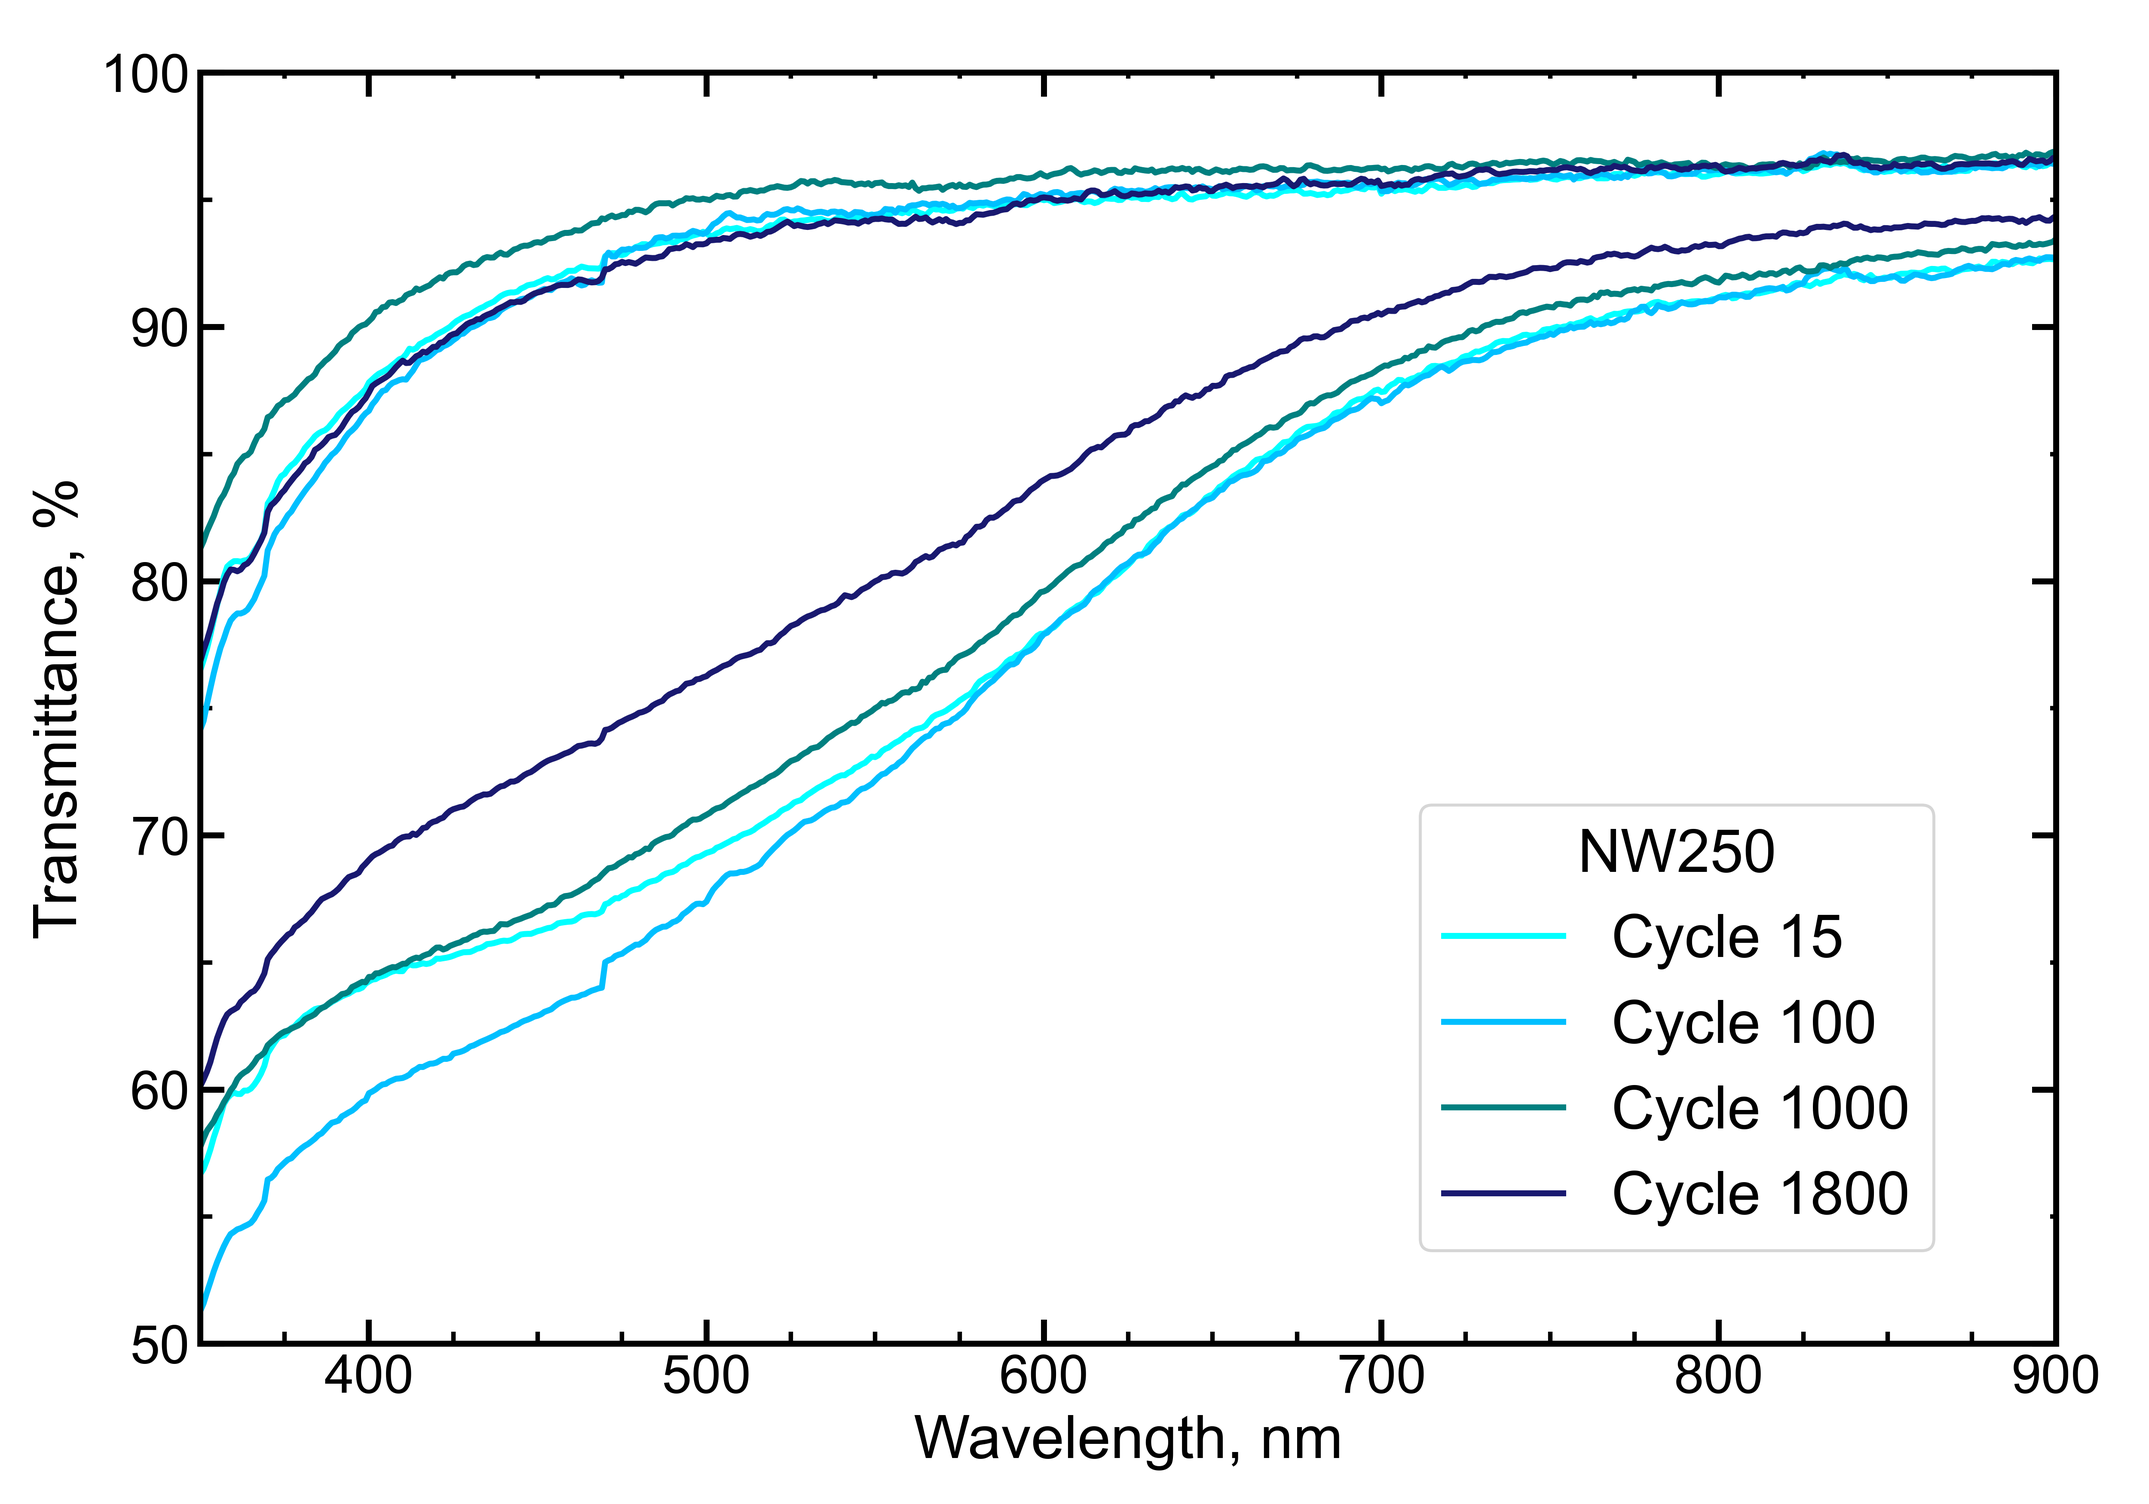
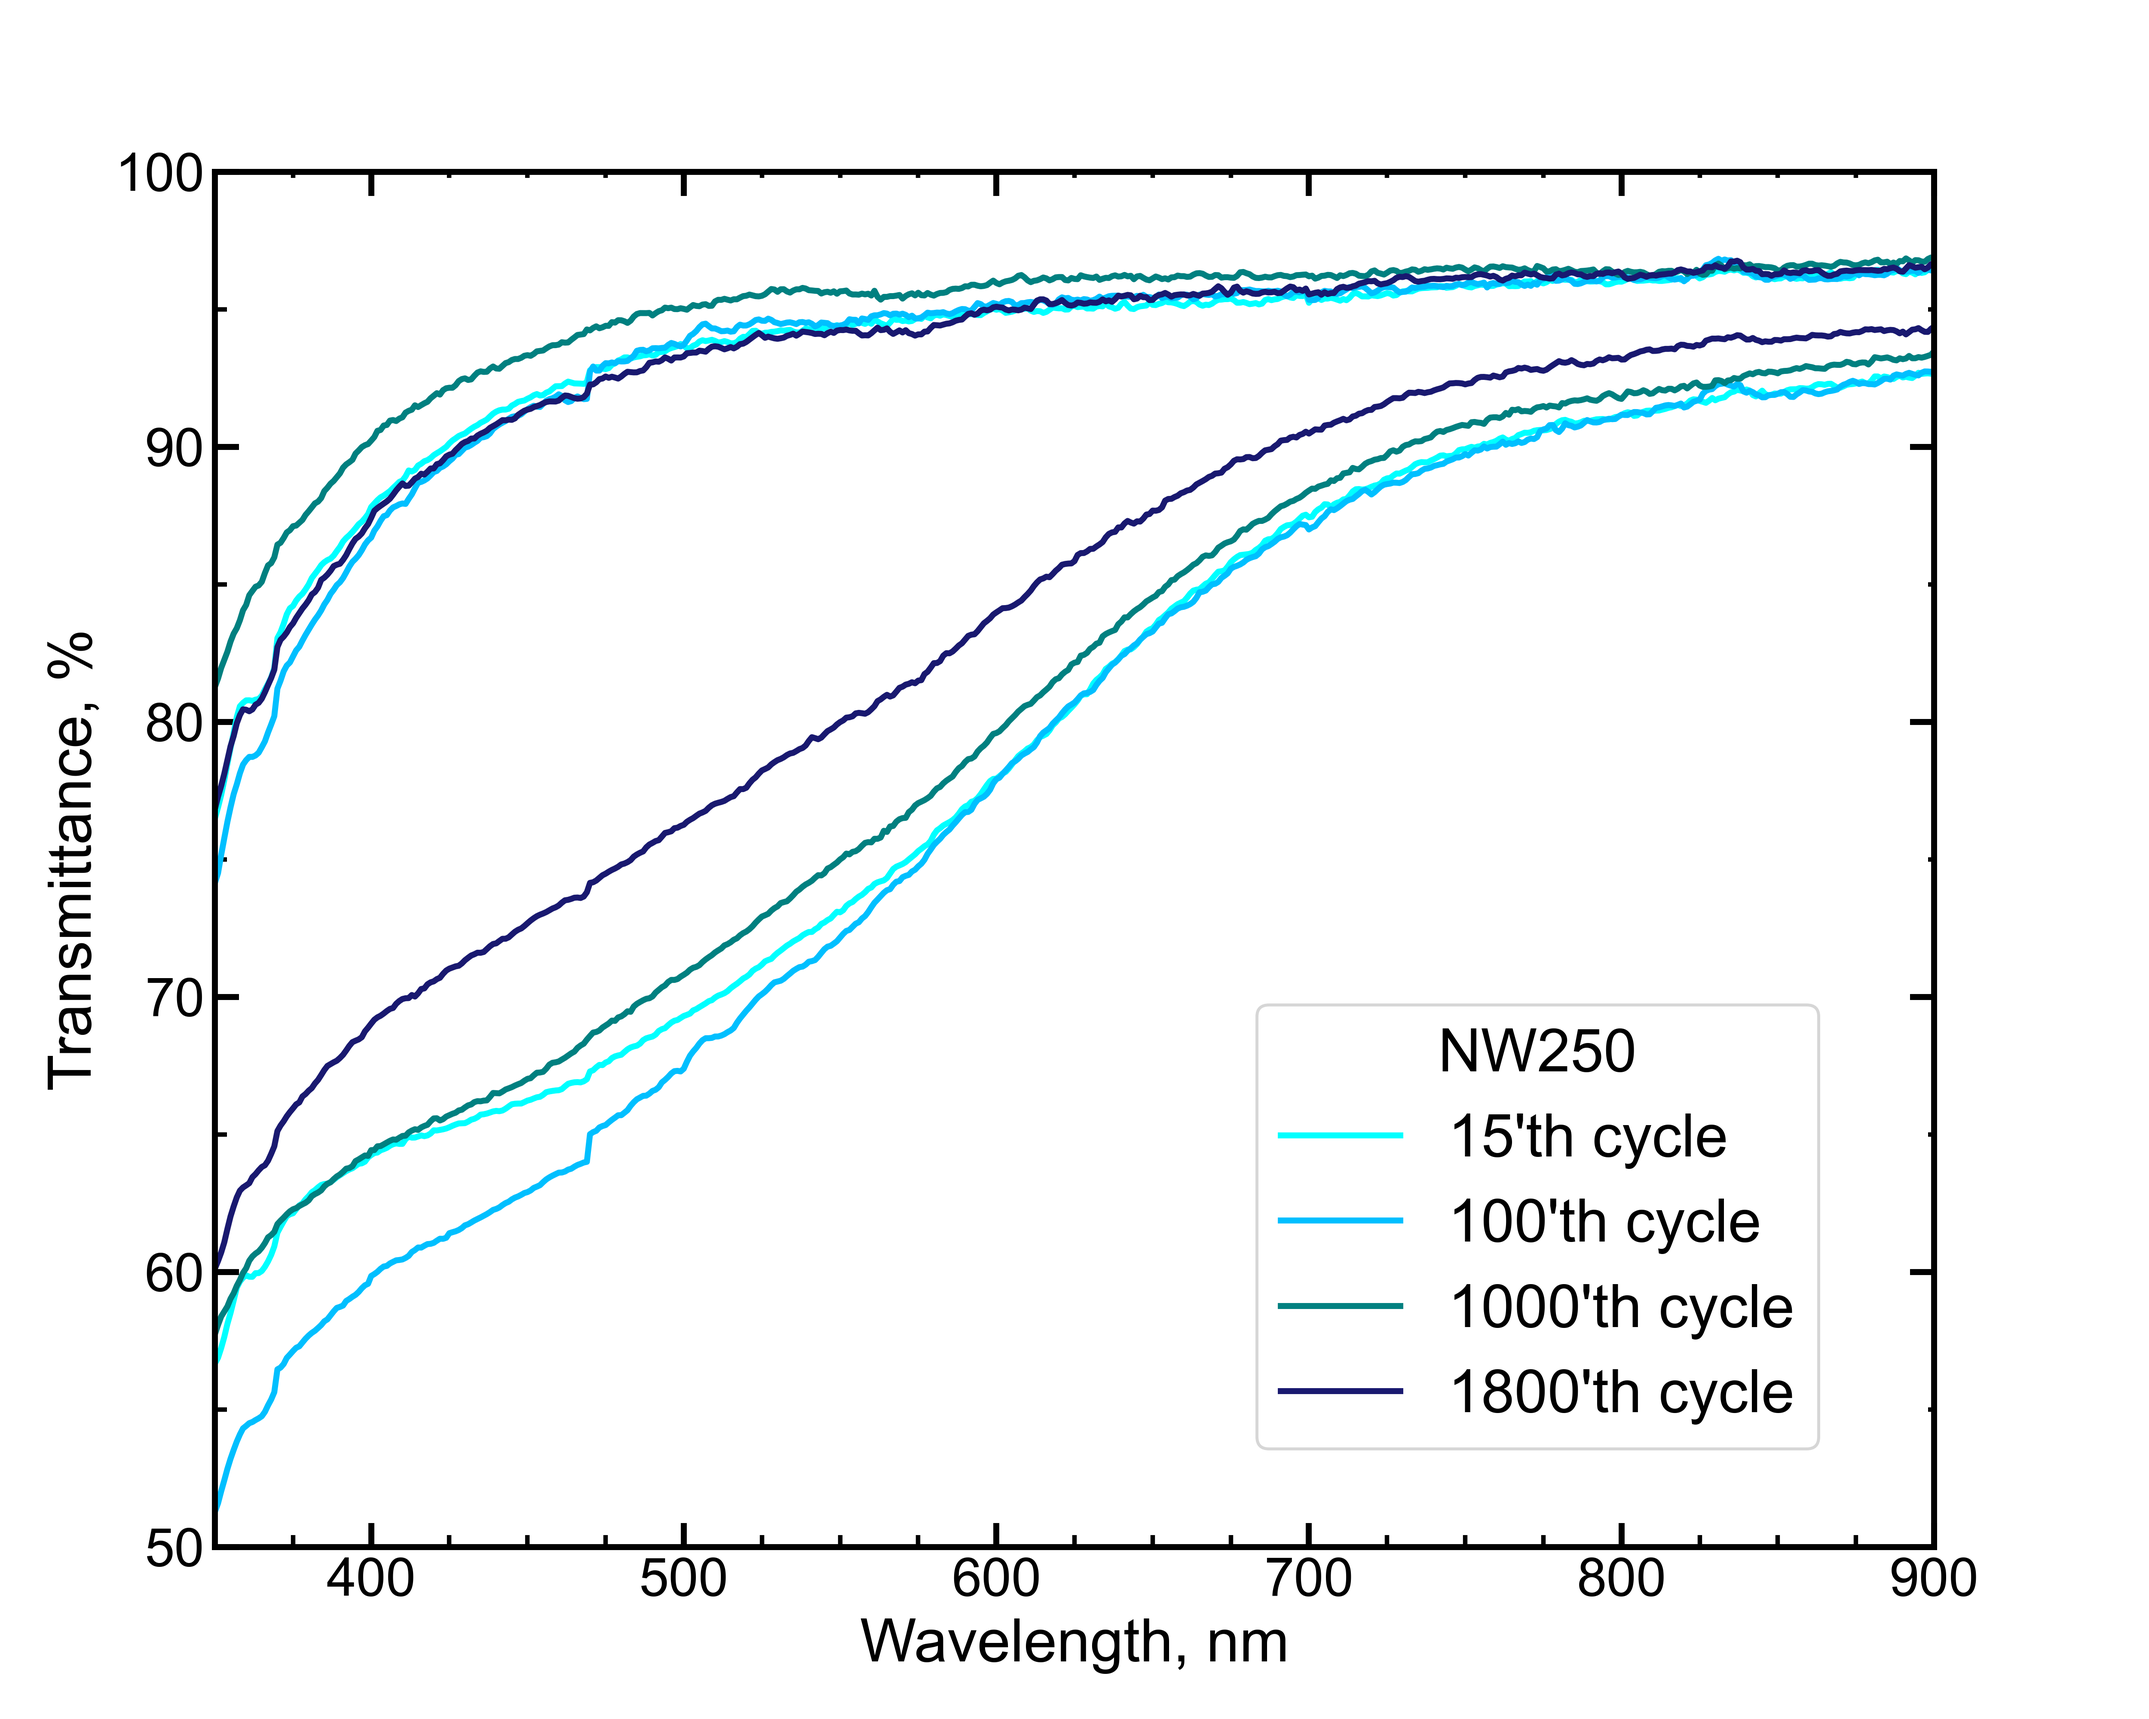
прошлые правки, доработка стрелочек s4, добработка текста спектров 91

diff --git a/Скрипты/091-spectras.py b/Скрипты/091-spectras.py
@@ -11,8 +11,6 @@ def main():
     c15l = "../Измерения/Со спектрометра Клинкова/22.12.23/cycles/91/15_light.csv"
     c103d = "../Измерения/Со спектрометра Клинкова/26.12.23/091_dark_3.csv"
     c103l = "../Измерения/Со спектрометра Клинкова/26.12.23/091_light_3.csv"
-    # c900d = "../Измерения/Со спектрометра Клинкова/09.02.24/091/dark.csv"
-    # c900l = "../Измерения/Со спектрометра Клинкова/09.02.24/091/transparent.csv"
     c1000l = "../Измерения/Со спектрометра Клинкова/28.02.24/091/ц1000 обесцв сост.csv"
     c1000d = "../Измерения/Со спектрометра Клинкова/28.02.24/091/ц1000 окр сост.csv"
     c1800l = "../Измерения/Со спектрометра Клинкова/24.05.24/091 ц1811 обесцв.csv"
@@ -30,7 +28,7 @@ def main():
     dfs[6].t += 1.2
     dfs[7].t += 1.2
 
-    fig, ax = plt.subplots(1, 1, figsize=(10, 7))
+    fig, ax = plt.subplots(1, 1, figsize=(10, 8))
 
     i = 0
     j = 0
@@ -39,7 +37,7 @@ def main():
     txt = [15, 15, 100, 100, 1000, 1000, 1800, 1800]
     for df in dfs:
         if i % 2 == 0:
-            ax.plot(df["wl"], df["t"], color=colors[k], label="Сycle " + txt[j].__str__(), linewidth=2)
+            ax.plot(df["wl"], df["t"], color=colors[k], label=txt[j].__str__() + "'th cycle", linewidth=2)
         else:
             ax.plot(df["wl"], df["t"], color=colors[k], linewidth=2)
         i += 1
@@ -84,7 +82,9 @@ def main():
     ax.set_ylim(50, 100)
     ax.set_xlim(350, 900)
 
-    fig.tight_layout()
+    # Настройка отступов для одинаковых рамок
+    fig.subplots_adjust(left=0.1, right=0.9, top=0.9, bottom=0.1)
+
     plt.show()
 
     fig.savefig("../Картинки/Спектры/Спектры 91 образца.png", dpi=500)

diff --git a/Скрипты/CV-091-all.py b/Скрипты/CV-091-all.py
@@ -28,12 +28,7 @@ line2, = ax.plot(sample100.voltage[-1800:-1], list(map(lambda x: 1000 * x / 5, s
 line3, = ax.plot(sample1000.voltage[-1800:-1], list(map(lambda x: 1000 * x / 5, sample1000.current))[-1800:-1], color='teal', label="1000'th cycle")
 line4, = ax.plot(sample1800.voltage[-1800:-1], list(map(lambda x: 1000 * x / 5, sample1800.current))[-1800:-1], color='midnightblue', label="1800'th cycle")
 
-# arrow = ax.arrow(0.39, 0.05, 0.04, 0.05, width=0.002, color="salmon")
-# plt.annotate("cycle increase", (0.37, 0.05), (0.25, 0.05), color="tomato", fontsize=20)
-
-ax.set_aspect(2)
-#ax.set_title("Sample 091")
-
+ax.set_aspect('auto')  # Автоматическое масштабирование
 ax.set_xlabel(r"Sample potential, V", size=20)
 ax.set_ylabel(r"Current density, mA/cm²", size=20)
 
@@ -48,7 +43,6 @@ ax.tick_params(axis="both", direction="in", length=8, labelsize=18, width=2)
 legend = ax.legend(fontsize='20', loc='upper left', bbox_to_anchor=(0.02, 0.98))
 plt.setp(legend.get_title(), fontsize='20', color='black')
 legend.set_title("NW250")
-
 
 ax2 = ax.secondary_yaxis("right")
 ax2.tick_params(axis="both", direction="in", length=8, labelcolor="white", width=2)
@@ -69,8 +63,9 @@ ax3.xaxis.set_minor_locator(plt.MultipleLocator(0.025))
 ax.set_xlim(-0.21, 0.7)
 ax.set_ylim(-0.17, 0.26)
 
-# ax.grid()
-fig.tight_layout()
+# Настройка отступов для одинаковых рамок
+fig.subplots_adjust(left=0.1, right=0.9, top=0.9, bottom=0.1)
+
 plt.show()
 
 fig.savefig("../Картинки/ЦВА/Sample091 10 100 1000 1800.png", dpi=500)

diff --git a/Скрипты/ITO-spectras.py b/Скрипты/ITO-spectras.py
@@ -60,6 +60,9 @@ def main():
     arrow = ax.arrow(900, 15, 100, 0, width=0.3, head_width=1, head_length=10, color="grey")
     arrow2 = ax.arrow(550, 80, -100, 0, width=0.3, head_width=1, head_length=10, color="grey")
 
+    arrow3 = ax.arrow(900, 15, -30, -5, width=0.4, head_width=0, head_length=0, color="grey")
+    arrow4 = ax.arrow(550, 80, 30, 7, width=0.4, head_width=0, head_length=0, color="grey")
+
     ax.set_ylim(0, 100)
     ax2.set_ylim(0.00, 100)
     ax.set_xlim(380, 1030)
